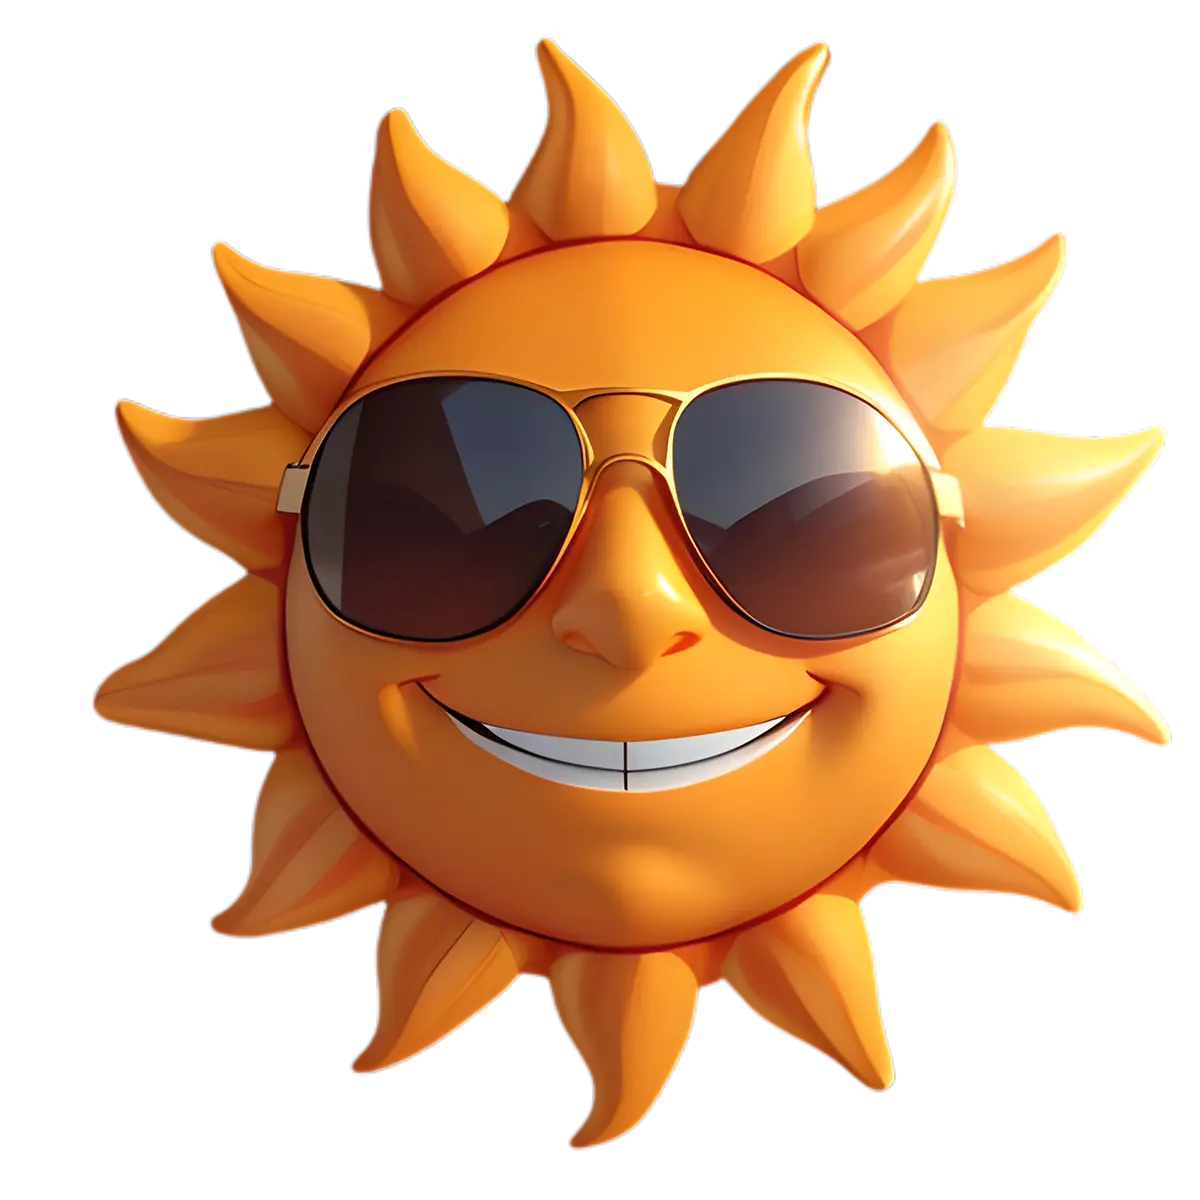
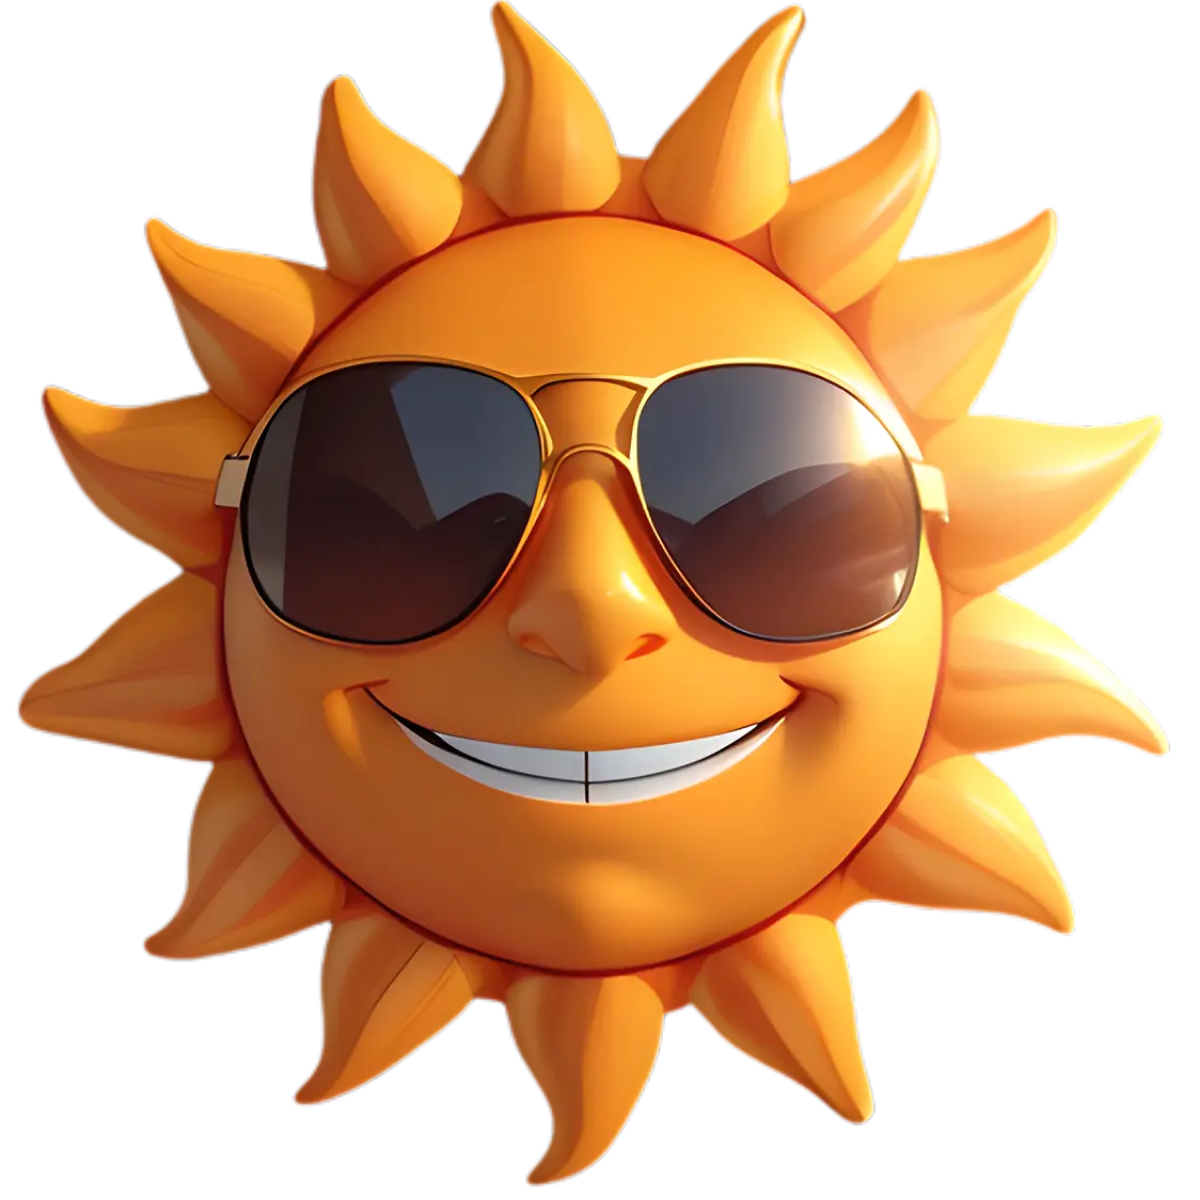
wip

diff --git a/app.vue b/app.vue
@@ -19,6 +19,19 @@ const footer = {
 <template>
   <div class="flex justify-center items-center flex-col px-5">
     <a
+      v-motion="{
+        initial: {
+          y: -500,
+          opacity: 0,
+        },
+        enter: {
+          y: 0,
+          opacity: 1,
+          transition: {
+            damping: 50,
+          },
+        },
+      }"
       class="hover:cursor-pointer"
       target="_blank"
       href="https://pt.pngtree.com/freepng/3d-sun-with-a-smiling-face-wearing-sunglasses_11129967.html"

diff --git a/nuxt.config.ts b/nuxt.config.ts
@@ -1,7 +1,12 @@
 // https://nuxt.com/docs/api/configuration/nuxt-config
 export default defineNuxtConfig({
   devtools: { enabled: true },
-  modules: ["@nuxtjs/tailwindcss", "@tresjs/nuxt", "@nuxt/image"],
+  modules: [
+    "@nuxtjs/tailwindcss",
+    "@tresjs/nuxt",
+    "@nuxt/image",
+    "@vueuse/motion/nuxt",
+  ],
   app: {
     head: {
       title: "Tá Calor",
